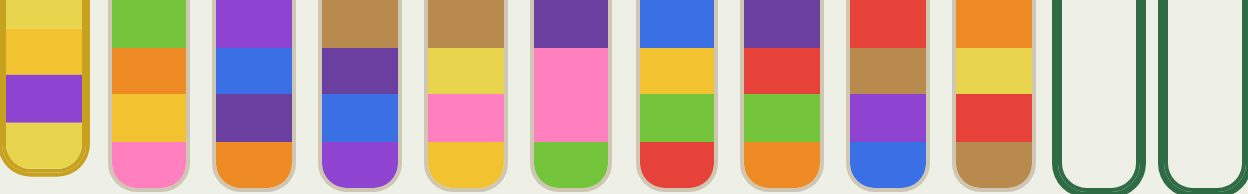
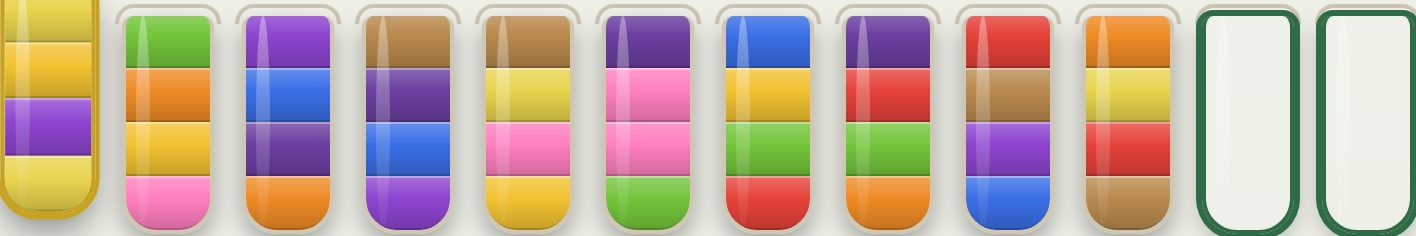
color-sort: livelier skins, pour animation, mobile multi-row
Visual polish from playtesting on mobile:
- Centre every unit and its icon in all three skins (a filled slot now
  holds a nested, centred unit, so sub-width balls and hex nuts sit in
  the middle instead of hugging the left edge).
- Make units more prominent and lively: glossy gradient fills with a
  bright top and shaded foot, bigger fruit icons, glass tubes with a
  mouth rim, a left specular highlight, rounded bottoms and drop shadows;
  balls and nuts gain bevels and highlights.
- A real pour effect: the units that land drop in from above the tube
  mouth with a staggered squash-settle, and the receiving tube bounces.
- Mobile portrait lays the tubes out on multiple rows (capped per row via
  --cs-cols) with big, touch-friendly tubes, so a 12-tube daily reads as
  two tidy rows instead of one cramped line.

All reduced-motion-safe. Regenerated the board/select guide shots.

Claude-Session: https://claude.ai/code/session_019T6arHtT2Mbh7iSStaT8BZ

diff --git a/styles.css b/styles.css
@@ -2270,99 +2270,162 @@ body.fullscreen .play-area {
   font-weight: 600;
 }
 
-/* The board: tubes wrap into rows and stay centred. */
+/* The board: tubes wrap into balanced rows and stay centred. `--cs-cols` caps
+   how many tubes sit per row (the board width follows from it), so a 12-tube
+   daily lands on tidy rows instead of one long line. */
 .cs-board {
   display: flex;
   flex-wrap: wrap;
-  gap: 0.55rem 0.7rem;
+  gap: 1rem 0.85rem;
   justify-content: center;
   align-items: flex-end;
-  max-width: 100%;
-  --cs-tw: 2.6rem;      /* tube width  */
-  --cs-uh: 1.5rem;      /* unit height */
+  --cs-tw: 2.9rem;      /* tube width  */
+  --cs-uh: 1.7rem;      /* unit height */
+  --cs-cols: 12;        /* max tubes per row */
+  max-width: calc(var(--cs-cols) * (var(--cs-tw) + 0.85rem));
 }
 
 /* A tube is a focusable button; four unit slots stack from the bottom. */
 .cs-tube {
   position: relative;
   width: var(--cs-tw);
-  padding: 0;
+  padding: 0.5rem 0 0;   /* room for the glass mouth rim */
   border: none;
   background: none;
   cursor: pointer;
-  transition: transform 120ms ease;
+  transition: transform 140ms cubic-bezier(0.34, 1.56, 0.64, 1);
   touch-action: manipulation;
 }
+/* The glass mouth — a subtle open rim above the column. */
+.cs-tube::before {
+  content: "";
+  position: absolute; top: 0.12rem; left: 50%; transform: translateX(-50%);
+  width: calc(var(--cs-tw) + 0.16rem); height: 0.5rem;
+  border: 2px solid var(--cs-tube-edge);
+  border-bottom: none;
+  border-radius: 0.6rem 0.6rem 0 0;
+  background: linear-gradient(180deg, rgba(255, 255, 255, 0.14), rgba(255, 255, 255, 0));
+}
 .cs-stack {
+  position: relative;
   display: flex;
   flex-direction: column-reverse;
   height: calc(var(--cs-uh) * 4);
   border: 2px solid var(--cs-tube-edge);
   border-top: none;
-  border-radius: 0 0 0.9rem 0.9rem;
-  background: rgba(255, 255, 255, 0.04);
+  border-radius: 0.35rem 0.35rem 1.1rem 1.1rem;
+  background: linear-gradient(180deg, rgba(255, 255, 255, 0.09), rgba(255, 255, 255, 0.02));
+  box-shadow: inset 0 0 0.55rem rgba(0, 0, 0, 0.28), 0 5px 12px rgba(0, 0, 0, 0.32);
   overflow: hidden;
 }
-.cs-slot { height: var(--cs-uh); }
-.cs-unit { height: var(--cs-uh); background: var(--cs-fill); display: grid; place-items: center; }
-.cs-icon { font-size: 0.95rem; line-height: 1; filter: drop-shadow(0 1px 1px rgba(0, 0, 0, 0.35)); }
+/* A soft vertical specular highlight down the left of the glass. */
+.cs-stack::after {
+  content: "";
+  position: absolute; top: 0; bottom: 0; left: 12%;
+  width: 16%; border-radius: 50%;
+  background: linear-gradient(180deg, rgba(255, 255, 255, 0.35), rgba(255, 255, 255, 0.04));
+  pointer-events: none;
+}
+.cs-slot { height: var(--cs-uh); display: grid; place-items: center; }
+.cs-unit {
+  width: 100%; height: var(--cs-uh);
+  display: grid; place-items: center;
+  /* A glossy fill: a bright top, the hue, then a shaded foot — reads as volume. */
+  background:
+    linear-gradient(180deg,
+      color-mix(in srgb, var(--cs-fill) 78%, white) 0%,
+      var(--cs-fill) 42%,
+      color-mix(in srgb, var(--cs-fill) 82%, black) 100%);
+  box-shadow: inset 0 1px 0 rgba(255, 255, 255, 0.35), inset 0 -1px 0 rgba(0, 0, 0, 0.18);
+}
+.cs-icon {
+  font-size: 1.2rem; line-height: 1;
+  filter: drop-shadow(0 1px 1.5px rgba(0, 0, 0, 0.45));
+  transform: translateZ(0);
+}
 
 /* Selection + legality feedback. */
-.cs-tube:focus-visible { outline: 3px solid var(--accent); outline-offset: 3px; border-radius: 0.4rem; }
-.cs-tube.selected { transform: translateY(-0.6rem); }
-.cs-tube.selected .cs-stack { border-color: var(--accent); box-shadow: 0 0 0 2px var(--accent); }
-.cs-tube.legal .cs-stack { box-shadow: 0 0 0 3px var(--active); border-color: var(--active); }
+.cs-tube:focus-visible { outline: 3px solid var(--accent); outline-offset: 3px; border-radius: 0.5rem; }
+.cs-tube.selected { transform: translateY(-0.7rem) scale(1.03); }
+.cs-tube.selected .cs-stack { border-color: var(--accent); box-shadow: 0 0 0 2px var(--accent), 0 8px 16px rgba(0, 0, 0, 0.4); }
+.cs-tube.selected::before { border-color: var(--accent); }
+.cs-tube.legal .cs-stack { box-shadow: 0 0 0 3px var(--active), 0 5px 12px rgba(0, 0, 0, 0.32); border-color: var(--active); }
 .cs-tube.legal::after {
   content: "";
-  position: absolute; inset-inline: 0; bottom: -0.9rem;
+  position: absolute; inset-inline: 0; bottom: -0.85rem;
   height: 0.5rem; margin-inline: auto; width: 0.5rem;
   border-radius: 50%; background: var(--active);
+  box-shadow: 0 0 0.5rem var(--active);
+  animation: cs-legal-pulse 1.1s ease-in-out infinite;
 }
-.cs-tube.cs-hint-to .cs-stack { box-shadow: 0 0 0 3px var(--accent); border-color: var(--accent); }
+.cs-tube.cs-hint-to .cs-stack { box-shadow: 0 0 0 3px var(--accent), 0 5px 12px rgba(0, 0, 0, 0.32); border-color: var(--accent); }
 
 /* A locked (solved) tube: a cap sits over the full monochrome column. */
 .cs-tube.locked { cursor: default; }
 .cs-cap {
-  position: absolute; top: -0.35rem; left: 50%; transform: translateX(-50%);
-  width: calc(var(--cs-tw) + 0.3rem); height: 0.5rem;
-  border-radius: 0.3rem; background: var(--cs-cap);
-  box-shadow: 0 1px 3px rgba(0, 0, 0, 0.4);
+  position: absolute; top: 0.02rem; left: 50%; transform: translateX(-50%);
+  width: calc(var(--cs-tw) + 0.34rem); height: 0.55rem;
+  border-radius: 0.32rem;
+  background: linear-gradient(180deg, color-mix(in srgb, var(--cs-cap) 80%, white), var(--cs-cap));
+  box-shadow: 0 2px 4px rgba(0, 0, 0, 0.45);
+  z-index: 2;
 }
 
 /* --- Water skin: liquid segments; the bottom unit rounds into the tube. --- */
-.cs-skin-water .cs-stack > .cs-slot:first-child.cs-unit { border-radius: 0 0 0.7rem 0.7rem; }
+.cs-skin-water .cs-stack > .cs-slot:first-child > .cs-unit { border-radius: 0 0 0.9rem 0.9rem; }
 
-/* --- Ball skin: each unit is a ball. --- */
-.cs-skin-ball .cs-slot { display: grid; place-items: center; }
+/* --- Ball skin: each unit is a glossy ball with a highlight + drop shadow. --- */
 .cs-skin-ball .cs-unit {
-  width: calc(var(--cs-uh) - 0.28rem);
-  height: calc(var(--cs-uh) - 0.28rem);
+  width: calc(var(--cs-uh) - 0.16rem);
+  height: calc(var(--cs-uh) - 0.16rem);
   border-radius: 50%;
-  background: radial-gradient(circle at 35% 30%, rgba(255, 255, 255, 0.55), var(--cs-fill) 62%);
+  background: radial-gradient(circle at 32% 28%,
+    rgba(255, 255, 255, 0.72) 0%,
+    var(--cs-fill) 58%,
+    color-mix(in srgb, var(--cs-fill) 66%, black) 100%);
+  box-shadow: 0 2px 3px rgba(0, 0, 0, 0.38), inset -2px -2px 4px rgba(0, 0, 0, 0.22);
 }
-.cs-skin-ball .cs-stack { background: rgba(255, 255, 255, 0.03); }
+.cs-skin-ball .cs-stack { background: linear-gradient(180deg, rgba(255, 255, 255, 0.06), rgba(255, 255, 255, 0.01)); }
 
-/* --- Bolt skin: a threaded post; each unit is a hex nut on the thread. --- */
+/* --- Bolt skin: a threaded post; each unit is a bevelled hex nut. --- */
 .cs-skin-bolt .cs-stack {
-  border-radius: 0 0 0.2rem 0.2rem;
+  border-radius: 0.2rem 0.2rem 0.35rem 0.35rem;
   background:
-    linear-gradient(var(--cs-post), var(--cs-post)) center / 0.4rem 100% no-repeat,
-    var(--cs-plate);
+    linear-gradient(90deg, transparent 46%, rgba(0, 0, 0, 0.25) 50%, transparent 54%) center / 0.5rem 100% no-repeat,
+    linear-gradient(var(--cs-post), color-mix(in srgb, var(--cs-post) 80%, black)) center / 0.4rem 100% no-repeat,
+    linear-gradient(180deg, color-mix(in srgb, var(--cs-plate) 88%, white), var(--cs-plate));
 }
 .cs-skin-bolt .cs-unit {
-  width: calc(var(--cs-tw) - 0.35rem);
-  height: calc(var(--cs-uh) - 0.2rem);
+  width: calc(var(--cs-tw) - 0.3rem);
+  height: calc(var(--cs-uh) - 0.16rem);
   margin-inline: auto;
-  background: var(--cs-fill);
+  background: linear-gradient(180deg,
+    color-mix(in srgb, var(--cs-fill) 80%, white),
+    var(--cs-fill) 55%,
+    color-mix(in srgb, var(--cs-fill) 78%, black));
   clip-path: polygon(25% 0, 75% 0, 100% 50%, 75% 100%, 25% 100%, 0 50%);
+  box-shadow: inset 0 1px 0 rgba(255, 255, 255, 0.4);
 }
-.cs-skin-bolt .cs-cap { background: var(--cs-post); height: 0.7rem; border-radius: 0.15rem; }
+.cs-skin-bolt .cs-cap { background: linear-gradient(180deg, color-mix(in srgb, var(--cs-post) 80%, white), var(--cs-post)); height: 0.75rem; border-radius: 0.16rem; }
 
-/* Pour + illegal feedback (reduced-motion safe below). */
+/* Pour, pulse, and illegal feedback (reduced-motion safe below). */
 @keyframes cs-shake { 0%,100% { transform: translateX(0); } 25% { transform: translateX(-4px); } 75% { transform: translateX(4px); } }
-@keyframes cs-poured { 0% { transform: translateY(-0.3rem); } 100% { transform: translateY(0); } }
+@keyframes cs-legal-pulse { 0%,100% { transform: scale(1); opacity: 0.85; } 50% { transform: scale(1.35); opacity: 1; } }
+/* A poured unit drops in from above the tube mouth, with a tiny squash-settle. */
+@keyframes cs-pour-in {
+  0%   { transform: translateY(-160%) scaleY(1.15); opacity: 0; }
+  55%  { opacity: 1; }
+  78%  { transform: translateY(4%) scaleY(0.9); }
+  100% { transform: translateY(0) scaleY(1); }
+}
+/* The receiving tube gives a little bounce as the fruit lands. */
+@keyframes cs-poured { 0% { transform: translateY(0); } 35% { transform: translateY(0.22rem); } 100% { transform: translateY(0); } }
 .cs-tube.cs-shake { animation: cs-shake 0.28s ease; }
-.cs-tube.cs-poured .cs-stack { animation: cs-poured 0.3s ease; }
+.cs-tube.cs-poured .cs-stack { animation: cs-poured 0.34s ease; }
+.cs-unit.cs-pour-in {
+  animation: cs-pour-in 0.36s cubic-bezier(0.3, 1.3, 0.6, 1) backwards;
+  animation-delay: calc(var(--pour-i, 0) * 70ms);
+}
 
 /* Settings: the skin segmented control. */
 .cs-skin-row { display: flex; align-items: center; gap: 0.4rem; flex-wrap: wrap; }
@@ -2379,11 +2442,17 @@ body.fullscreen .play-area {
 .cs-share-line { font-family: var(--font-mono); font-size: 0.85rem; color: var(--ink-muted); }
 
 @media (prefers-reduced-motion: reduce) {
-  .cs-tube, .cs-tube.cs-shake, .cs-tube.cs-poured .cs-stack { animation: none; transition: none; }
+  .cs-tube, .cs-tube.cs-shake, .cs-tube.cs-poured .cs-stack, .cs-unit.cs-pour-in, .cs-tube.legal::after {
+    animation: none; transition: none;
+  }
 }
-/* Mobile: shrink tubes so a 12-tube daily never overflows a narrow phone. */
-@media (max-width: 420px) {
-  .cs-board { --cs-tw: 2.1rem; --cs-uh: 1.25rem; gap: 0.4rem 0.5rem; }
+/* Mobile portrait: keep tubes big and touch-friendly, capped at 6 per row so a
+   daily lands on two tidy rows instead of a cramped single line. */
+@media (max-width: 560px) {
+  .cs-board { --cs-cols: 6; --cs-tw: 2.7rem; --cs-uh: 1.6rem; gap: 0.9rem 0.7rem; }
+}
+@media (max-width: 380px) {
+  .cs-board { --cs-cols: 5; --cs-tw: 2.5rem; --cs-uh: 1.5rem; }
 }
 
 /* ==========================================================================

diff --git a/src/games/color-sort/color-sort.ts b/src/games/color-sort/color-sort.ts
@@ -214,6 +214,9 @@ export function colorSortModule(): GameModule {
   let seed = 0n;
   let skin: ColorSortSkin = colorSortSkin();
   let selected: number | null = null;
+  // The most recent pour, so the target tube's newly-arrived units animate in
+  // once. Cleared after the render that consumes it.
+  let pourAnim: { tube: number; count: number } | null = null;
 
   const statusEl = el("p", { class: "sol-status", role: "status", "aria-live": "polite" });
   const setStatus = (msg: string): void => {
@@ -286,18 +289,29 @@ export function colorSortModule(): GameModule {
       "aria-label": label,
       "aria-pressed": String(isSource),
     });
-    // Units stack from the bottom (flex column-reverse in CSS).
+    // Units stack from the bottom (flex column-reverse in CSS). Each slot is a
+    // full-width centring box; a filled slot holds a nested unit (the fill / ball
+    // / nut) so every skin centres its unit and its icon. The top `pourAnim.count`
+    // units of the just-poured target animate in.
+    const pourCount = pourAnim && pourAnim.tube === t ? pourAnim.count : 0;
     const stack = el("div", { class: "cs-stack" });
     for (let i = 0; i < b.cap; i++) {
-      const unit = el("div", { class: "cs-slot" });
+      const slot = el("div", { class: "cs-slot" });
       if (i < tube.length) {
         const c = tube[i]!;
-        unit.classList.add("cs-unit");
+        const unit = el("div", { class: "cs-unit" });
         unit.style.setProperty("--cs-fill", colors[c] ?? "#888");
         unit.setAttribute("data-color", String(c));
+        // Newly-poured units sit in the top `pourCount` positions of the target.
+        const fromTop = tube.length - 1 - i;
+        if (pourCount > 0 && fromTop < pourCount) {
+          unit.classList.add("cs-pour-in");
+          unit.style.setProperty("--pour-i", String(pourCount - 1 - fromTop));
+        }
         if (iconsOn()) unit.append(el("span", { class: "cs-icon", "aria-hidden": "true" }, ICONS[c] ?? ""));
+        slot.append(unit);
       }
-      stack.append(unit);
+      stack.append(slot);
     }
     if (locked) btn.append(el("div", { class: "cs-cap", "aria-hidden": "true" }));
     btn.append(stack);
@@ -438,6 +452,7 @@ export function colorSortModule(): GameModule {
     if (disposed || !container || !game) return;
     const b = game.board();
     if (b.won) {
+      pourAnim = null;
       void presentResult();
       return;
     }
@@ -452,6 +467,7 @@ export function colorSortModule(): GameModule {
       statusEl,
     );
     container.replaceChildren(wrap);
+    pourAnim = null; // the pour animation plays once, on the render that follows it
   }
 
   const rebuild = (): void => {
@@ -492,11 +508,14 @@ export function colorSortModule(): GameModule {
     }
     const from = selected;
     selected = null;
+    const toLenBefore = b.tubes[t]!.length;
     const status = game.pour(from, t);
     if (status !== "applied") {
       render();
       return;
     }
+    // How many units actually landed — those top slots animate the pour in.
+    pourAnim = { tube: t, count: Math.max(1, game.board().tubes[t]!.length - toLenBefore) };
     setStatus("");
     persist();
     afterMove(t);
